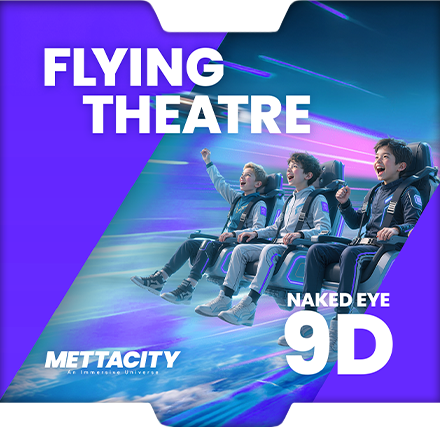
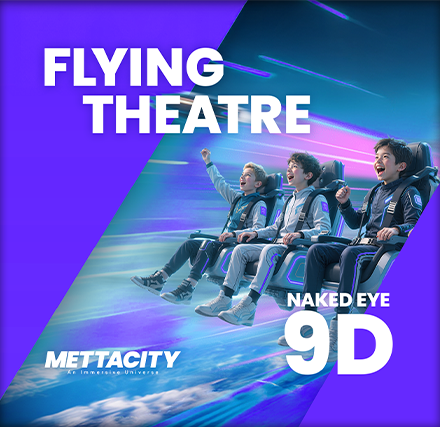
Adjust The Main Carousel Size And Added The New Images

Changed region(s): [[0.6205, 0.9133, 1.0, 1.0], [0.0, 0.9133, 0.3841, 1.0], [0.325, 0.0, 0.6795, 0.0913]]

diff --git a/public/cssfolder/carousel.css b/public/cssfolder/carousel.css
@@ -1,164 +1,173 @@
-        .carouselslide {
-            position: absolute;
-            top: 12%;
-            left: 0;
-            width: 100%;
-            z-index: 0; /* place behind the image wrapper */            opacity: 1;
-            transition: top 10s ease, opacity 0.6s ease, transform 0.6s ease;
-            will-change: top, opacity, transform;        
-        }
-                /* Static image overlaying the carousel */
-        .carousel-background {
-            position: absolute;
-            top: 88.5%;
-            left: 0;
-            width: 100%;
-            display: block;
-            object-fit: cover;
-            z-index: 2; /* sits above carousel (z:0) and below overlay (z:2/10) */
-            pointer-events: none; /* allow clicks to pass through to controls */
-            opacity: 1;
-            transition: opacity 0.6s ease, transform 0.6s ease;
-            will-change: opacity, transform;
-        }
+.carouselslide {
+    position: absolute;
+    top: 12%;
+    left: 0;
+    width: 100%;
+    z-index: 0; /* place behind the image wrapper */
+    opacity: 1;
+    transition: top 10s ease, opacity 0.6s ease, transform 0.6s ease;
+    will-change: top, opacity, transform;
+}
 
-        /* Style carousel indicators: center them and make 0,1,3,4 circular while middle (2) is a pill */
-        .carousel-indicators {
-            display: flex;
-            align-items: center; /* vertical center all buttons */
-            justify-content: center;
-            gap: 12px; /* spacing between indicators */
-            padding: 0;
-            margin: 0;
-            transform: translateY(-50px); /* nudge indicators slightly upward */
-            transition: transform 0.25s ease;
-        }
+/* Static image overlaying the carousel */
+.carousel-background {
+    position: absolute;
+    top: 88.5%;
+    left: 0;
+    width: 100%;
+    display: block;
+    object-fit: cover;
+    z-index: 2; /* sits above carousel (z:0) and below overlay (z:2/10) */
+    pointer-events: none; /* allow clicks to pass through to controls */
+    opacity: 1;
+    transition: opacity 0.6s ease, transform 0.6s ease;
+    will-change: opacity, transform;
+}
 
-        .carousel-indicators button {
-            padding: 0;
-            margin: 0;
-            display: inline-flex;
-            align-items: center;
-            justify-content: center;
-            vertical-align: middle;
-        }
+/* Style carousel indicators */
+.carousel-indicators {
+    display: flex;
+    align-items: center; /* vertical center all buttons */
+    justify-content: center;
+    gap: 12px; /* spacing between indicators */
+    padding: 0;
+    margin: 0;
+    transform: translateY(-50px); /* nudge indicators slightly upward */
+    transition: transform 0.25s ease;
+}
 
-        .carousel-indicators button:nth-child(1),
-        .carousel-indicators button:nth-child(2),
-        .carousel-indicators button:nth-child(4),
-        .carousel-indicators button:nth-child(5) {
-            width: 12px;
-            height: 12px;
-            padding: 0;
-            border-radius: 50%;
-            background-color: rgba(255,255,255,0.85);
-            border: none;
-            transition: transform 0.25s ease, opacity 0.25s ease;
-            box-shadow: none;
-        }
+.carousel-indicators button {
+    padding: 0;
+    margin: 0;
+    display: inline-flex;
+    align-items: center;
+    justify-content: center;
+    vertical-align: middle;
+}
 
-        /* Middle indicator stays a wider pill with fully rounded ends */
-        .carousel-indicators button:nth-child(3) {
-            width: 100px;
-            height: 12px;
-            padding: 0;
-            border-radius: 20px; /* fully rounded pill */
-            background-color: #ffffff;
-            opacity: 1;
-            box-shadow: none;
-            transition: width 0.3s ease, transform 0.25s ease, opacity 0.25s ease;
-        }
+.carousel-indicators button:nth-child(1),
+.carousel-indicators button:nth-child(2),
+.carousel-indicators button:nth-child(4),
+.carousel-indicators button:nth-child(5) {
+    width: 12px;
+    height: 12px;
+    padding: 0;
+    border-radius: 50%;
+    background-color: rgba(255,255,255,0.85);
+    border: none;
+    transition: transform 0.25s ease, opacity 0.25s ease;
+    box-shadow: none;
+}
 
-        /* Slightly smaller when not active, grows when active */
-        .carousel-indicators button:nth-child(3):not(.active) {
-            width: 100px;
-            background-color: rgba(255, 255, 255, 0.7);
-        }
-        .carousel-indicators button:nth-child(3).active {
-            width: 100px;
-            transform: scale(1.03);
-            background-color: #ffffff;
-        }
+/* Middle indicator stays a wider pill */
+.carousel-indicators button:nth-child(3) {
+    width: 100px;
+    height: 12px;
+    padding: 0;
+    border-radius: 20px;
+    background-color: #ffffff;
+    opacity: 1;
+    box-shadow: none;
+    transition: width 0.3s ease, transform 0.25s ease, opacity 0.25s ease;
+}
 
-        /* Small adjustments for accessibility and focus */
-        .carousel-indicators button:focus { outline: none; box-shadow: 0 0 0 0.18rem rgba(99,197,180,0.25); }
+/* Slightly smaller when not active */
+.carousel-indicators button:nth-child(3):not(.active) {
+    width: 100px;
+    background-color: rgba(255, 255, 255, 0.7);
+}
 
-        .MB1, .MB2 {
-            display: none !important;
-        }
+.carousel-indicators button:nth-child(3).active {
+    width: 100px;
+    transform: scale(1.03);
+    background-color: #ffffff;
+}
 
-        /*MOBILE*/
+/* Accessibility focus */
+.carousel-indicators button:focus {
+    outline: none;
+    box-shadow: 0 0 0 0.18rem rgba(99,197,180,0.25);
+}
 
+.MB1, .MB2 {
+    display: none !important;
+}
+
+/* ========================================= */
+/* MOBILE (375px to 425px) */
+/* ========================================= */
 @media (min-width: 375px) and (max-width: 425px) {
 
     .carouselslide {
-            top: 8%;
+        top: 8%;
     }
+
     .carousel-inner {
         top: -13px;
     }
+
     .B1, .B2 {
         display: none !important;
     }
+
     .MB1, .MB2 {
-            display: block !important;
+        display: block !important;
     }
-        /* Style carousel indicators: center them and make 0,1,3,4 circular while middle (2) is a pill */
-        .carousel-indicators {
-            display: flex;
-            align-items: center; /* vertical center all buttons */
-            justify-content: center;
-            gap: 1px; /* spacing between indicators */
-            padding: 0;
-            margin: 0;
-            transform: translateY(-25px); /* nudge indicators slightly upward */
-            transition: transform 0.25s ease;
-        }
 
-        .carousel-indicators button {
-            padding: 0;
-            margin: 0;
-            display: inline-flex;
-            align-items: center;
-            justify-content: center;
-            vertical-align: middle;
-        }
-
-        .carousel-indicators button:nth-child(1),
-        .carousel-indicators button:nth-child(2),
-        .carousel-indicators button:nth-child(4),
-        .carousel-indicators button:nth-child(5) {
-            width: 7px;
-            height: 7px;
-            padding: 0;
-            border-radius: 50%;
-            background-color: rgba(255,255,255,0.85);
-            border: none;
-            transition: transform 0.25s ease, opacity 0.25s ease;
-            box-shadow: none;
-        }
-
-        /* Middle indicator stays a wider pill with fully rounded ends */
-        .carousel-indicators button:nth-child(3) {
-            width: 50px;
-            height: 7px;
-            padding: 0;
-            border-radius: 20px; /* fully rounded pill */
-            background-color: #ffffff;
-            opacity: 1;
-            box-shadow: none;
-            transition: width 0.3s ease, transform 0.25s ease, opacity 0.25s ease;
-        }
-
-        /* Slightly smaller when not active, grows when active */
-        .carousel-indicators button:nth-child(3):not(.active) {
-            width: 50px;
-            background-color: rgba(255, 255, 255, 0.7);
-        }
-        .carousel-indicators button:nth-child(3).active {
-            width: 50px;
-            transform: scale(1.03);
-            background-color: #ffffff;
-        }
-
+    .carousel-indicators {
+        display: flex;
+        align-items: center;
+        justify-content: center;
+        gap: 1px;
+        padding: 0;
+        margin: 0;
+        transform: translateY(-25px);
+        transition: transform 0.25s ease;
     }
+
+    .carousel-indicators button {
+        padding: 0;
+        margin: 0;
+        display: inline-flex;
+        align-items: center;
+        justify-content: center;
+        vertical-align: middle;
+    }
+
+    .carousel-indicators button:nth-child(1),
+    .carousel-indicators button:nth-child(2),
+    .carousel-indicators button:nth-child(4),
+    .carousel-indicators button:nth-child(5) {
+        width: 7px;
+        height: 7px;
+        padding: 0;
+        border-radius: 50%;
+        background-color: rgba(255,255,255,0.85);
+        border: none;
+        transition: transform 0.25s ease, opacity 0.25s ease;
+        box-shadow: none;
+    }
+
+    .carousel-indicators button:nth-child(3) {
+        width: 50px;
+        height: 7px;
+        padding: 0;
+        border-radius: 20px;
+        background-color: #ffffff;
+        opacity: 1;
+        box-shadow: none;
+        transition: width 0.3s ease, transform 0.25s ease, opacity 0.25s ease;
+    }
+
+    .carousel-indicators button:nth-child(3):not(.active) {
+        width: 50px;
+        background-color: rgba(255, 255, 255, 0.7);
+    }
+
+    .carousel-indicators button:nth-child(3).active {
+        width: 50px;
+        transform: scale(1.03);
+        background-color: #ffffff;
+    }
+
+}
